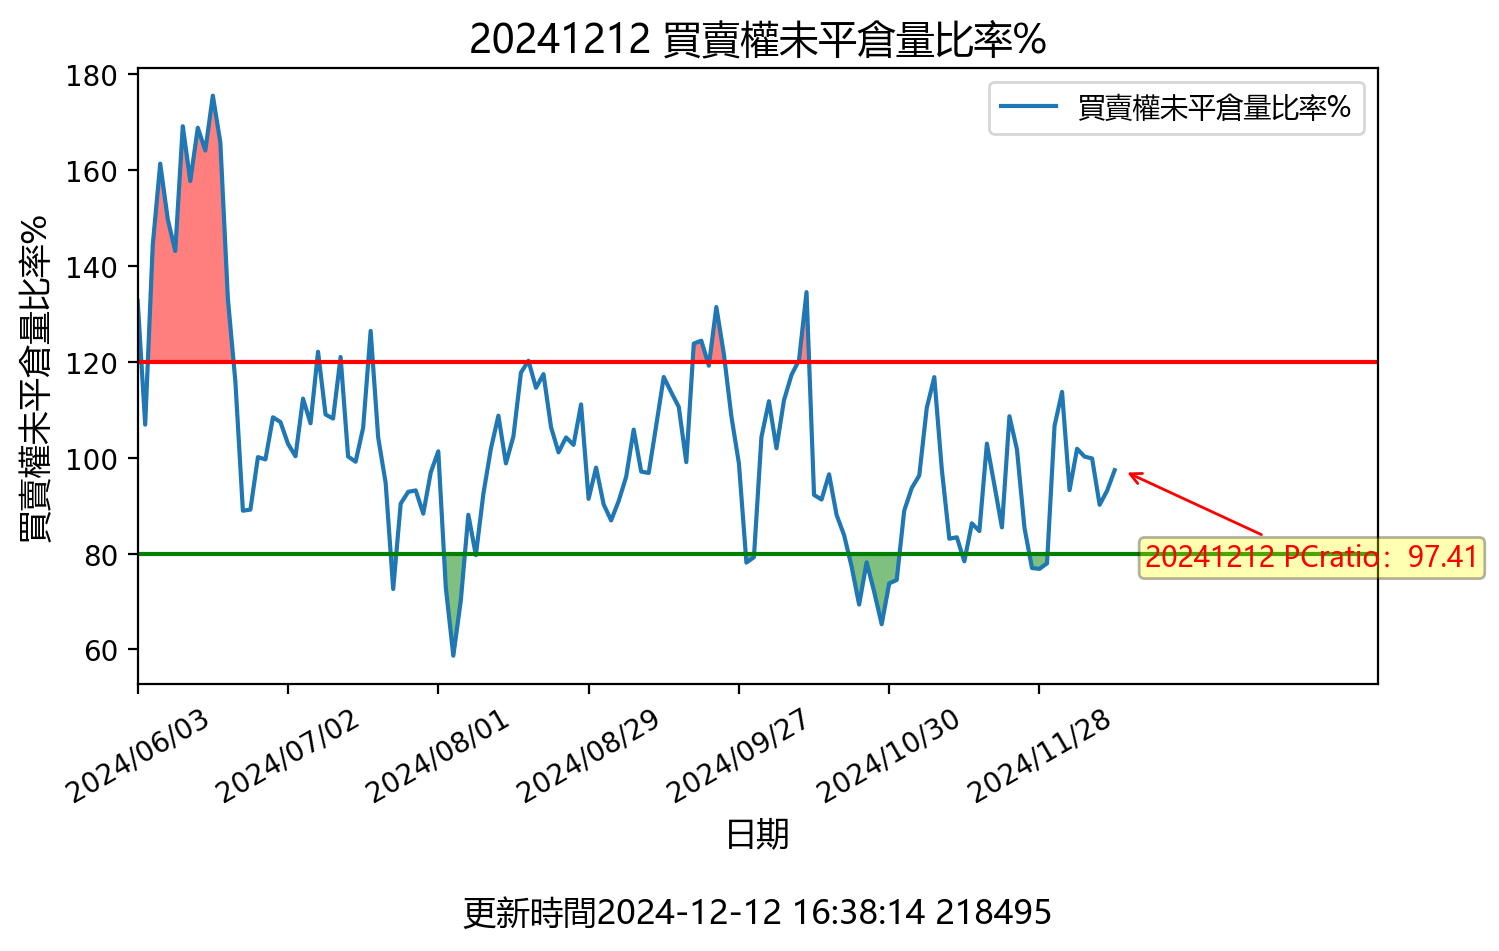
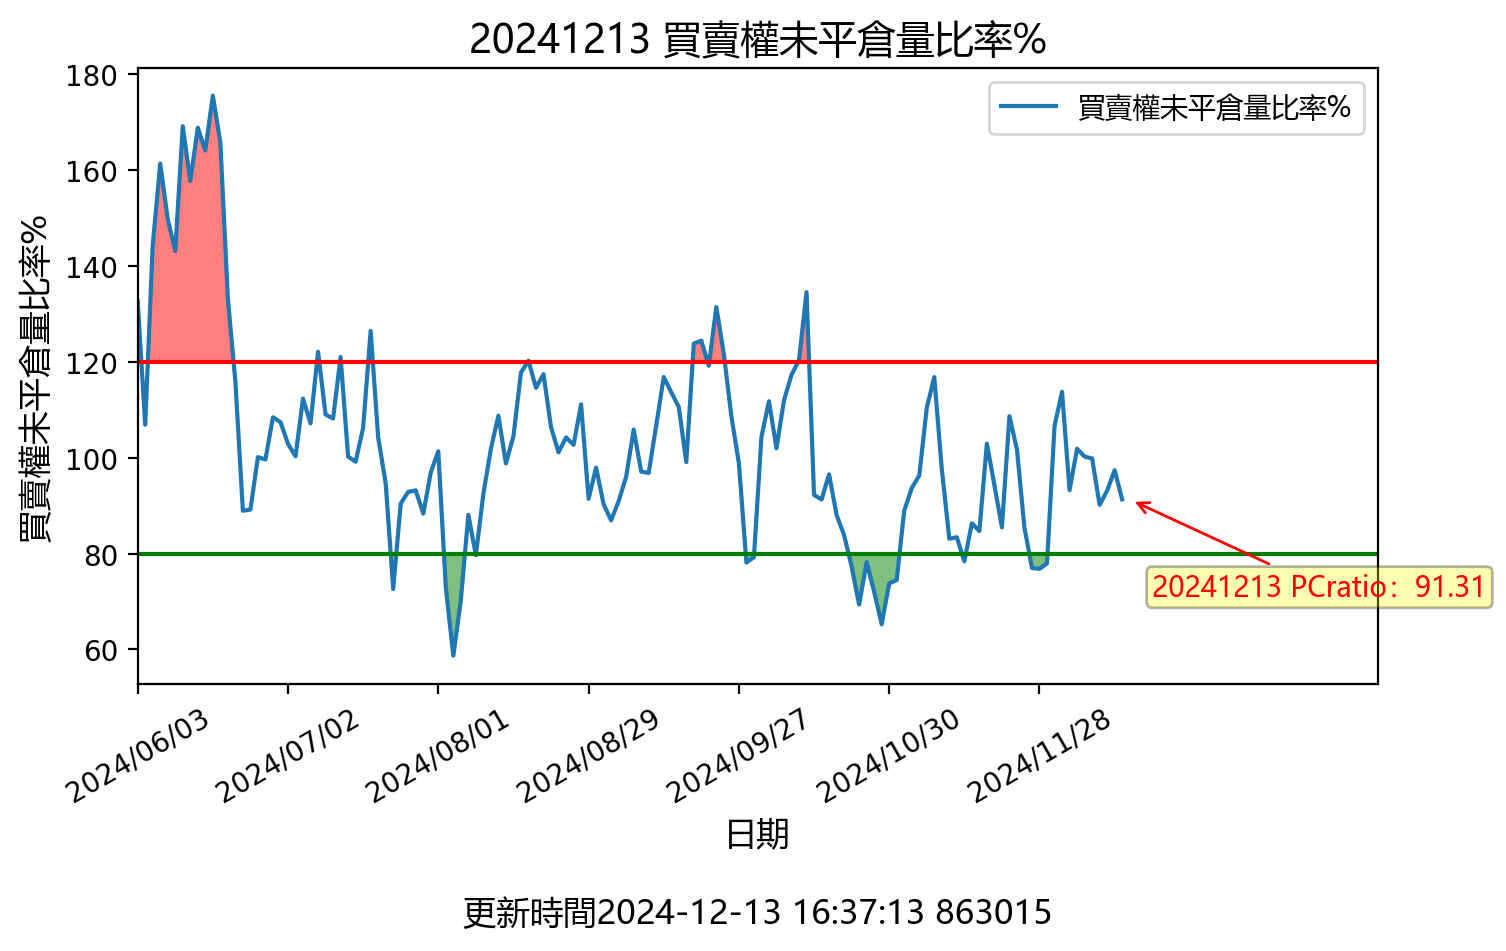
更新時間: Fri Dec 13 16:37:31 CST 2024

diff --git a/README.md b/README.md
@@ -1,12 +1,12 @@
-## 20241212 台指期「預估換倉成本」
+## 20241213 台指期「預估換倉成本」
 ![](images/txfcost.png)
 
-## 20241212 台指期「散戶小台多空比」
+## 20241213 台指期「散戶小台多空比」
 ![](images/bbiri.png)
 
-## 20241212 台指選擇權「Put/Call Ratios」
+## 20241213 台指選擇權「Put/Call Ratios」
 ![](images/pcratio.png)
 
-## 20241212 台指期「大額交易人」
+## 20241213 台指期「大額交易人」
 ![](images/blocktrade.png)
 
